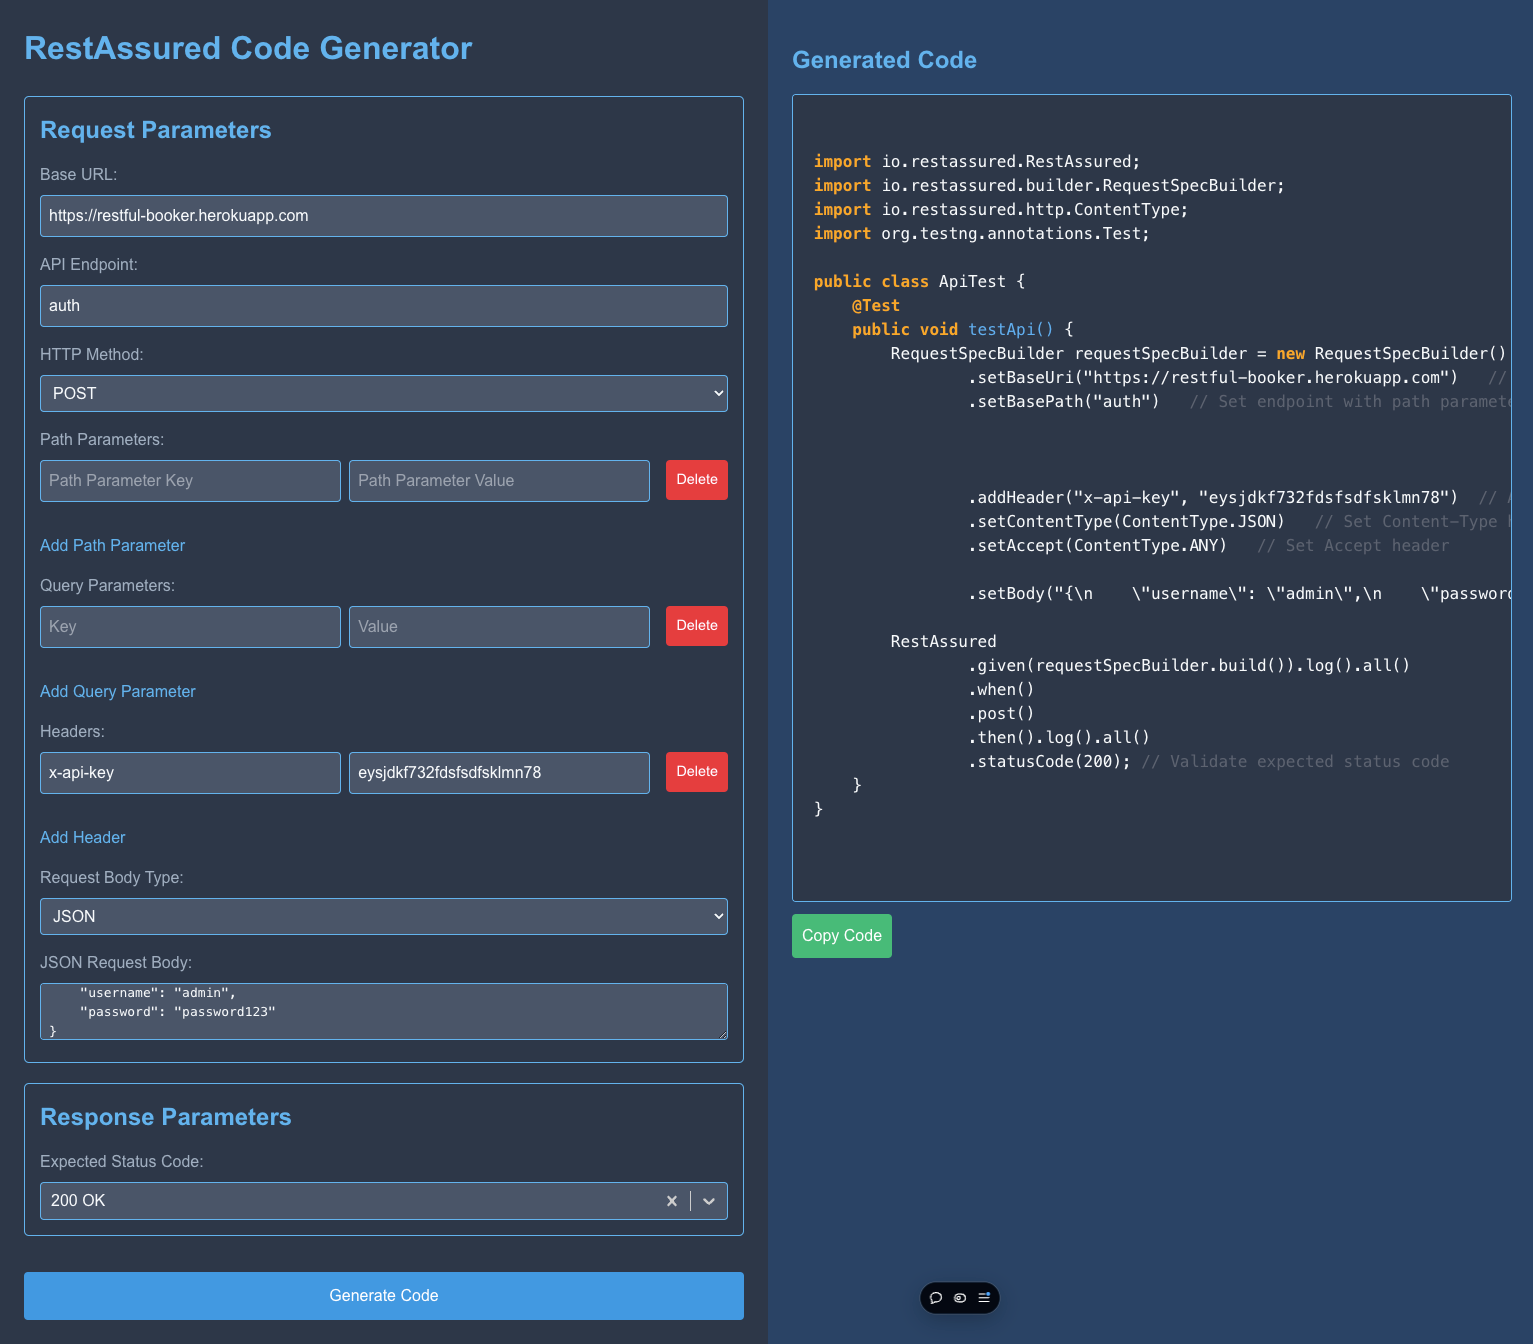
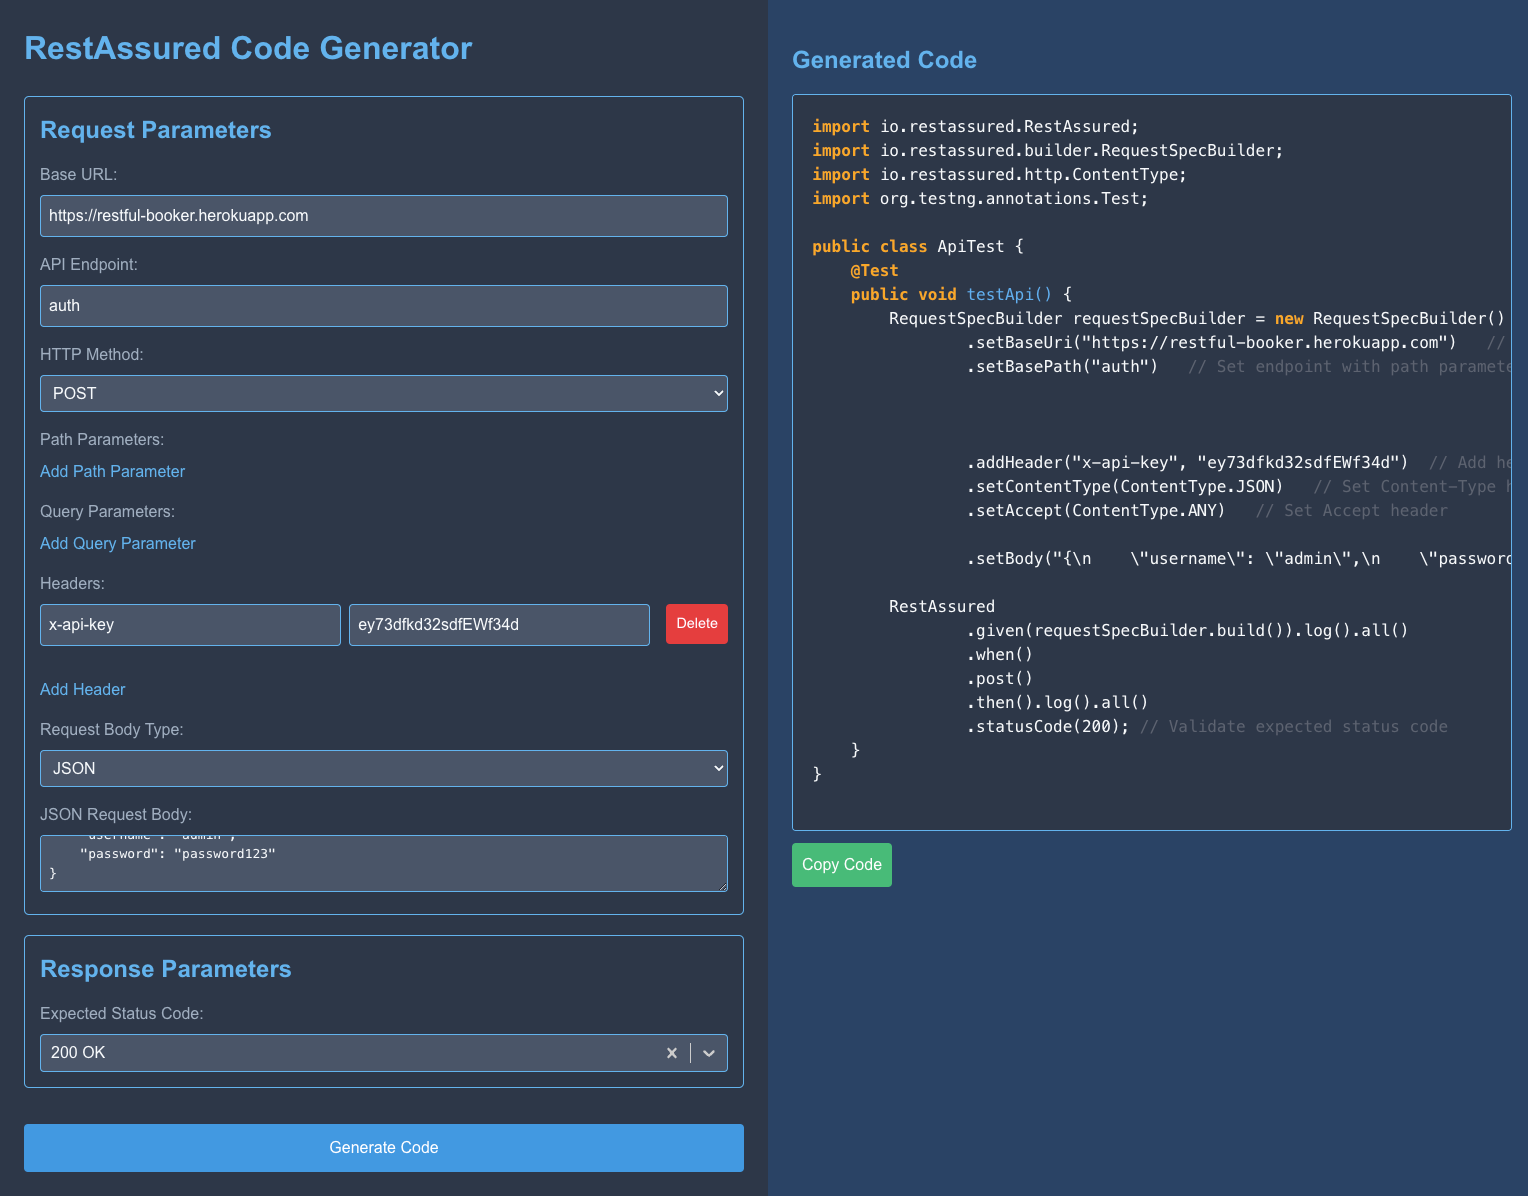
Updated image

diff --git a/src/app/page.tsx b/src/app/page.tsx
@@ -107,7 +107,7 @@ export default function Home() {
   };
 
   const handleGenerateCode = () => {
-    const intendation = "                      ";
+    const intendation = "                  ";
     const baseUrlInput = document.querySelector(
       'input[placeholder="Base URL"]'
     ) as HTMLInputElement | null;
@@ -157,68 +157,68 @@ export default function Home() {
 
     // Generate the full Java class with imports
     let restAssuredCode = `
-      <pre>
-      <span class="keyword">import</span> io.restassured.RestAssured;
-      <span class="keyword">import</span> io.restassured.builder.RequestSpecBuilder;
-      <span class="keyword">import</span> io.restassured.http.ContentType;
-      <span class="keyword">import</span> org.testng.annotations.Test;
+  <pre>
+  <span class="keyword">import</span> io.restassured.RestAssured;
+  <span class="keyword">import</span> io.restassured.builder.RequestSpecBuilder;
+  <span class="keyword">import</span> io.restassured.http.ContentType;
+  <span class="keyword">import</span> org.testng.annotations.Test;
   
-      <span class="keyword">public</span> <span class="keyword">class</span> ApiTest {
-          <span class="keyword">@Test</span>
-          <span class="keyword">public</span> <span class="keyword">void</span> <span class="function">testApi()</span> {
-              RequestSpecBuilder requestSpecBuilder = <span class="keyword">new</span> RequestSpecBuilder()
-                      .setBaseUri("${baseUrl}")   <span class="comment">// Set API base url</span>
-                      .setBasePath("${apiEndpoint}${
+  <span class="keyword">public</span> <span class="keyword">class</span> ApiTest {
+      <span class="keyword">@Test</span>
+      <span class="keyword">public</span> <span class="keyword">void</span> <span class="function">testApi()</span> {
+          RequestSpecBuilder requestSpecBuilder = <span class="keyword">new</span> RequestSpecBuilder()
+                  .setBaseUri("${baseUrl}")   <span class="comment">// Set API base url</span>
+                  .setBasePath("${apiEndpoint}${
       pathParamPlaceholders ? "/" + pathParamPlaceholders : ""
     }")   <span class="comment">// Set endpoint with path parameters</span>
-                      ${
-                        pathParamStrings
-                          ? `\n${intendation}` +
-                            pathParamStrings +
-                            `   <span class="comment">// Add path parameters</span>`
-                          : ""
-                      }
-                      ${
-                        queryParamStrings
-                          ? `\n${intendation}` +
-                            queryParamStrings +
-                            `  <span class="comment">// Add query parameters</span>`
-                          : ""
-                      }
-                      ${
-                        headerStrings
-                          ? `\n${intendation}` +
-                            headerStrings +
-                            `  <span class="comment">// Add headers</span>`
-                          : ""
-                      }
-                      .setContentType(ContentType.${
-                        requestBodyType === "JSON" ? "JSON" : "MULTIPART"
-                      })   <span class="comment">// Set Content-Type header</span>
-                      .setAccept(ContentType.ANY)   <span class="comment">// Set Accept header</span>
-                      ${
-                        requestBodyType === "JSON"
-                          ? `\n${intendation}.setBody(${formattedBody})`
-                          : formData
-                              .map(
-                                (param) =>
-                                  `\n${intendation}.addMultiPart("${param.key}", "${param.value}")`
-                              )
-                              .join("")
-                      };
+                  ${
+                    pathParamStrings
+                      ? `\n${intendation}` +
+                        pathParamStrings +
+                        `   <span class="comment">// Add path parameters</span>`
+                      : ""
+                  }
+                  ${
+                    queryParamStrings
+                      ? `\n${intendation}` +
+                        queryParamStrings +
+                        `  <span class="comment">// Add query parameters</span>`
+                      : ""
+                  }
+                  ${
+                    headerStrings
+                      ? `\n${intendation}` +
+                        headerStrings +
+                        `  <span class="comment">// Add headers</span>`
+                      : ""
+                  }
+                  .setContentType(ContentType.${
+                    requestBodyType === "JSON" ? "JSON" : "MULTIPART"
+                  })   <span class="comment">// Set Content-Type header</span>
+                  .setAccept(ContentType.ANY)   <span class="comment">// Set Accept header</span>
+                  ${
+                    requestBodyType === "JSON"
+                      ? `\n${intendation}.setBody(${formattedBody})`
+                      : formData
+                          .map(
+                            (param) =>
+                              `\n${intendation}.addMultiPart("${param.key}", "${param.value}")`
+                          )
+                          .join("")
+                  };
           
-              RestAssured
-                      .given(requestSpecBuilder.build()).log().all()
-                      .when()
-                      .${httpMethod.toLowerCase()}()
-                      .then().log().all()
-                      .statusCode(${
-                        expectedStatusCode || 200
-                      }); <span class="comment">// Validate expected status code</span>
-          }
+          RestAssured
+                  .given(requestSpecBuilder.build()).log().all()
+                  .when()
+                  .${httpMethod.toLowerCase()}()
+                  .then().log().all()
+                  .statusCode(${
+                    expectedStatusCode || 200
+                  }); <span class="comment">// Validate expected status code</span>
       }
-      </pre>
-      `;
+  }
+  </pre>
+  `;
 
     // Display the generated code
     codeBlock.innerHTML = restAssuredCode; // Use innerHTML to allow HTML tags
@@ -227,20 +227,19 @@ export default function Home() {
   const handleCopyCode = () => {
     if (codeBlockRef.current) {
       const code = codeBlockRef.current.innerText.trim();
-      if(code) {
+      if (code) {
         navigator.clipboard
-        .writeText(code)
-        .then(() => {
-          setCopyMessage("Code copied to clipboard!");
-          setTimeout(() => setCopyMessage(""), 3000); // Clear message after 3 seconds
-        })
-        .catch((err) => {
-          console.error("Could not copy text: ", err);
-        });
-      }
-      else {
+          .writeText(code)
+          .then(() => {
+            setCopyMessage("Code copied to clipboard!");
+            setTimeout(() => setCopyMessage(""), 3000); // Clear message after 3 seconds
+          })
+          .catch((err) => {
+            console.error("Could not copy text: ", err);
+          });
+      } else {
         setCopyMessage("Code block is empty!");
-          setTimeout(() => setCopyMessage(""), 3000); // Clear message after 3 seconds
+        setTimeout(() => setCopyMessage(""), 3000); // Clear message after 3 seconds
       }
     }
   };

diff --git a/src/app/styles.css b/src/app/styles.css
@@ -128,7 +128,6 @@
 /* Code Block */
 .code-block {
     background-color: #2d3748;
-    padding: 16px;
     border-radius: 4px;
     border: 1px solid #63b3ed;
     min-height: 525px;
@@ -136,7 +135,7 @@
     overflow-y: auto;
     color: #f7fafc;
     font-family: monospace;
-    white-space: pre;
+    white-space: pre-line;
     /* Preserve whitespace for formatting */
 }
 
